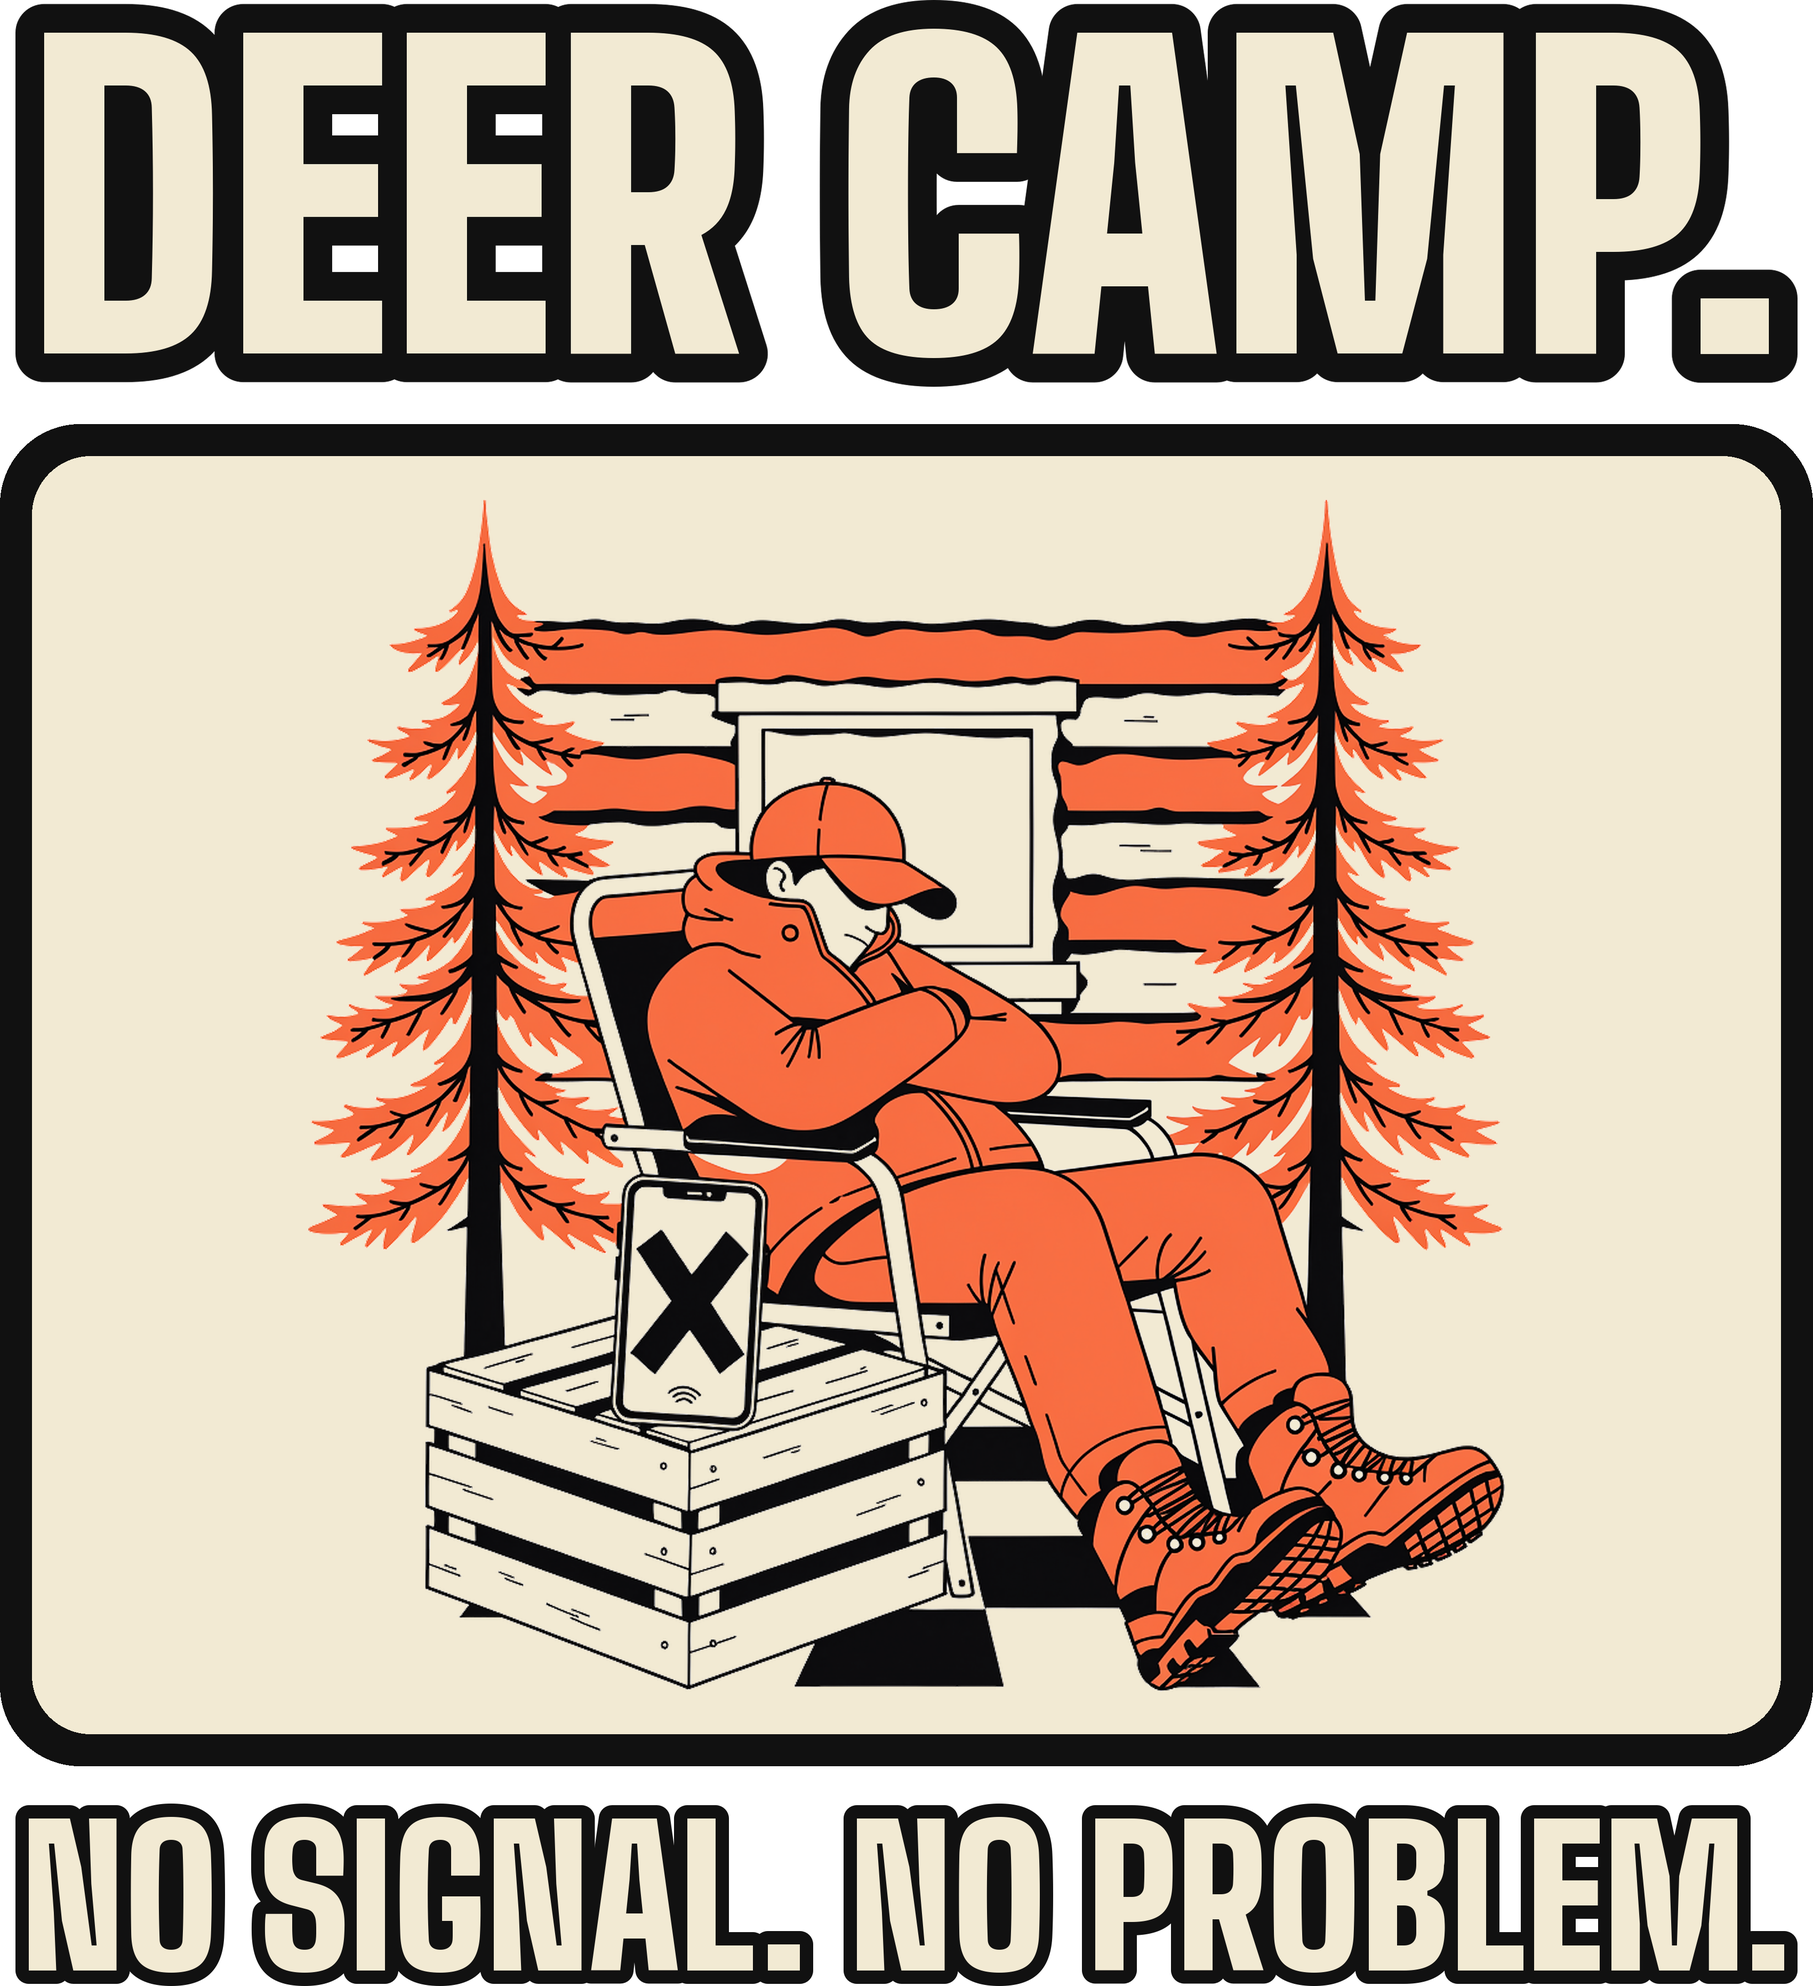
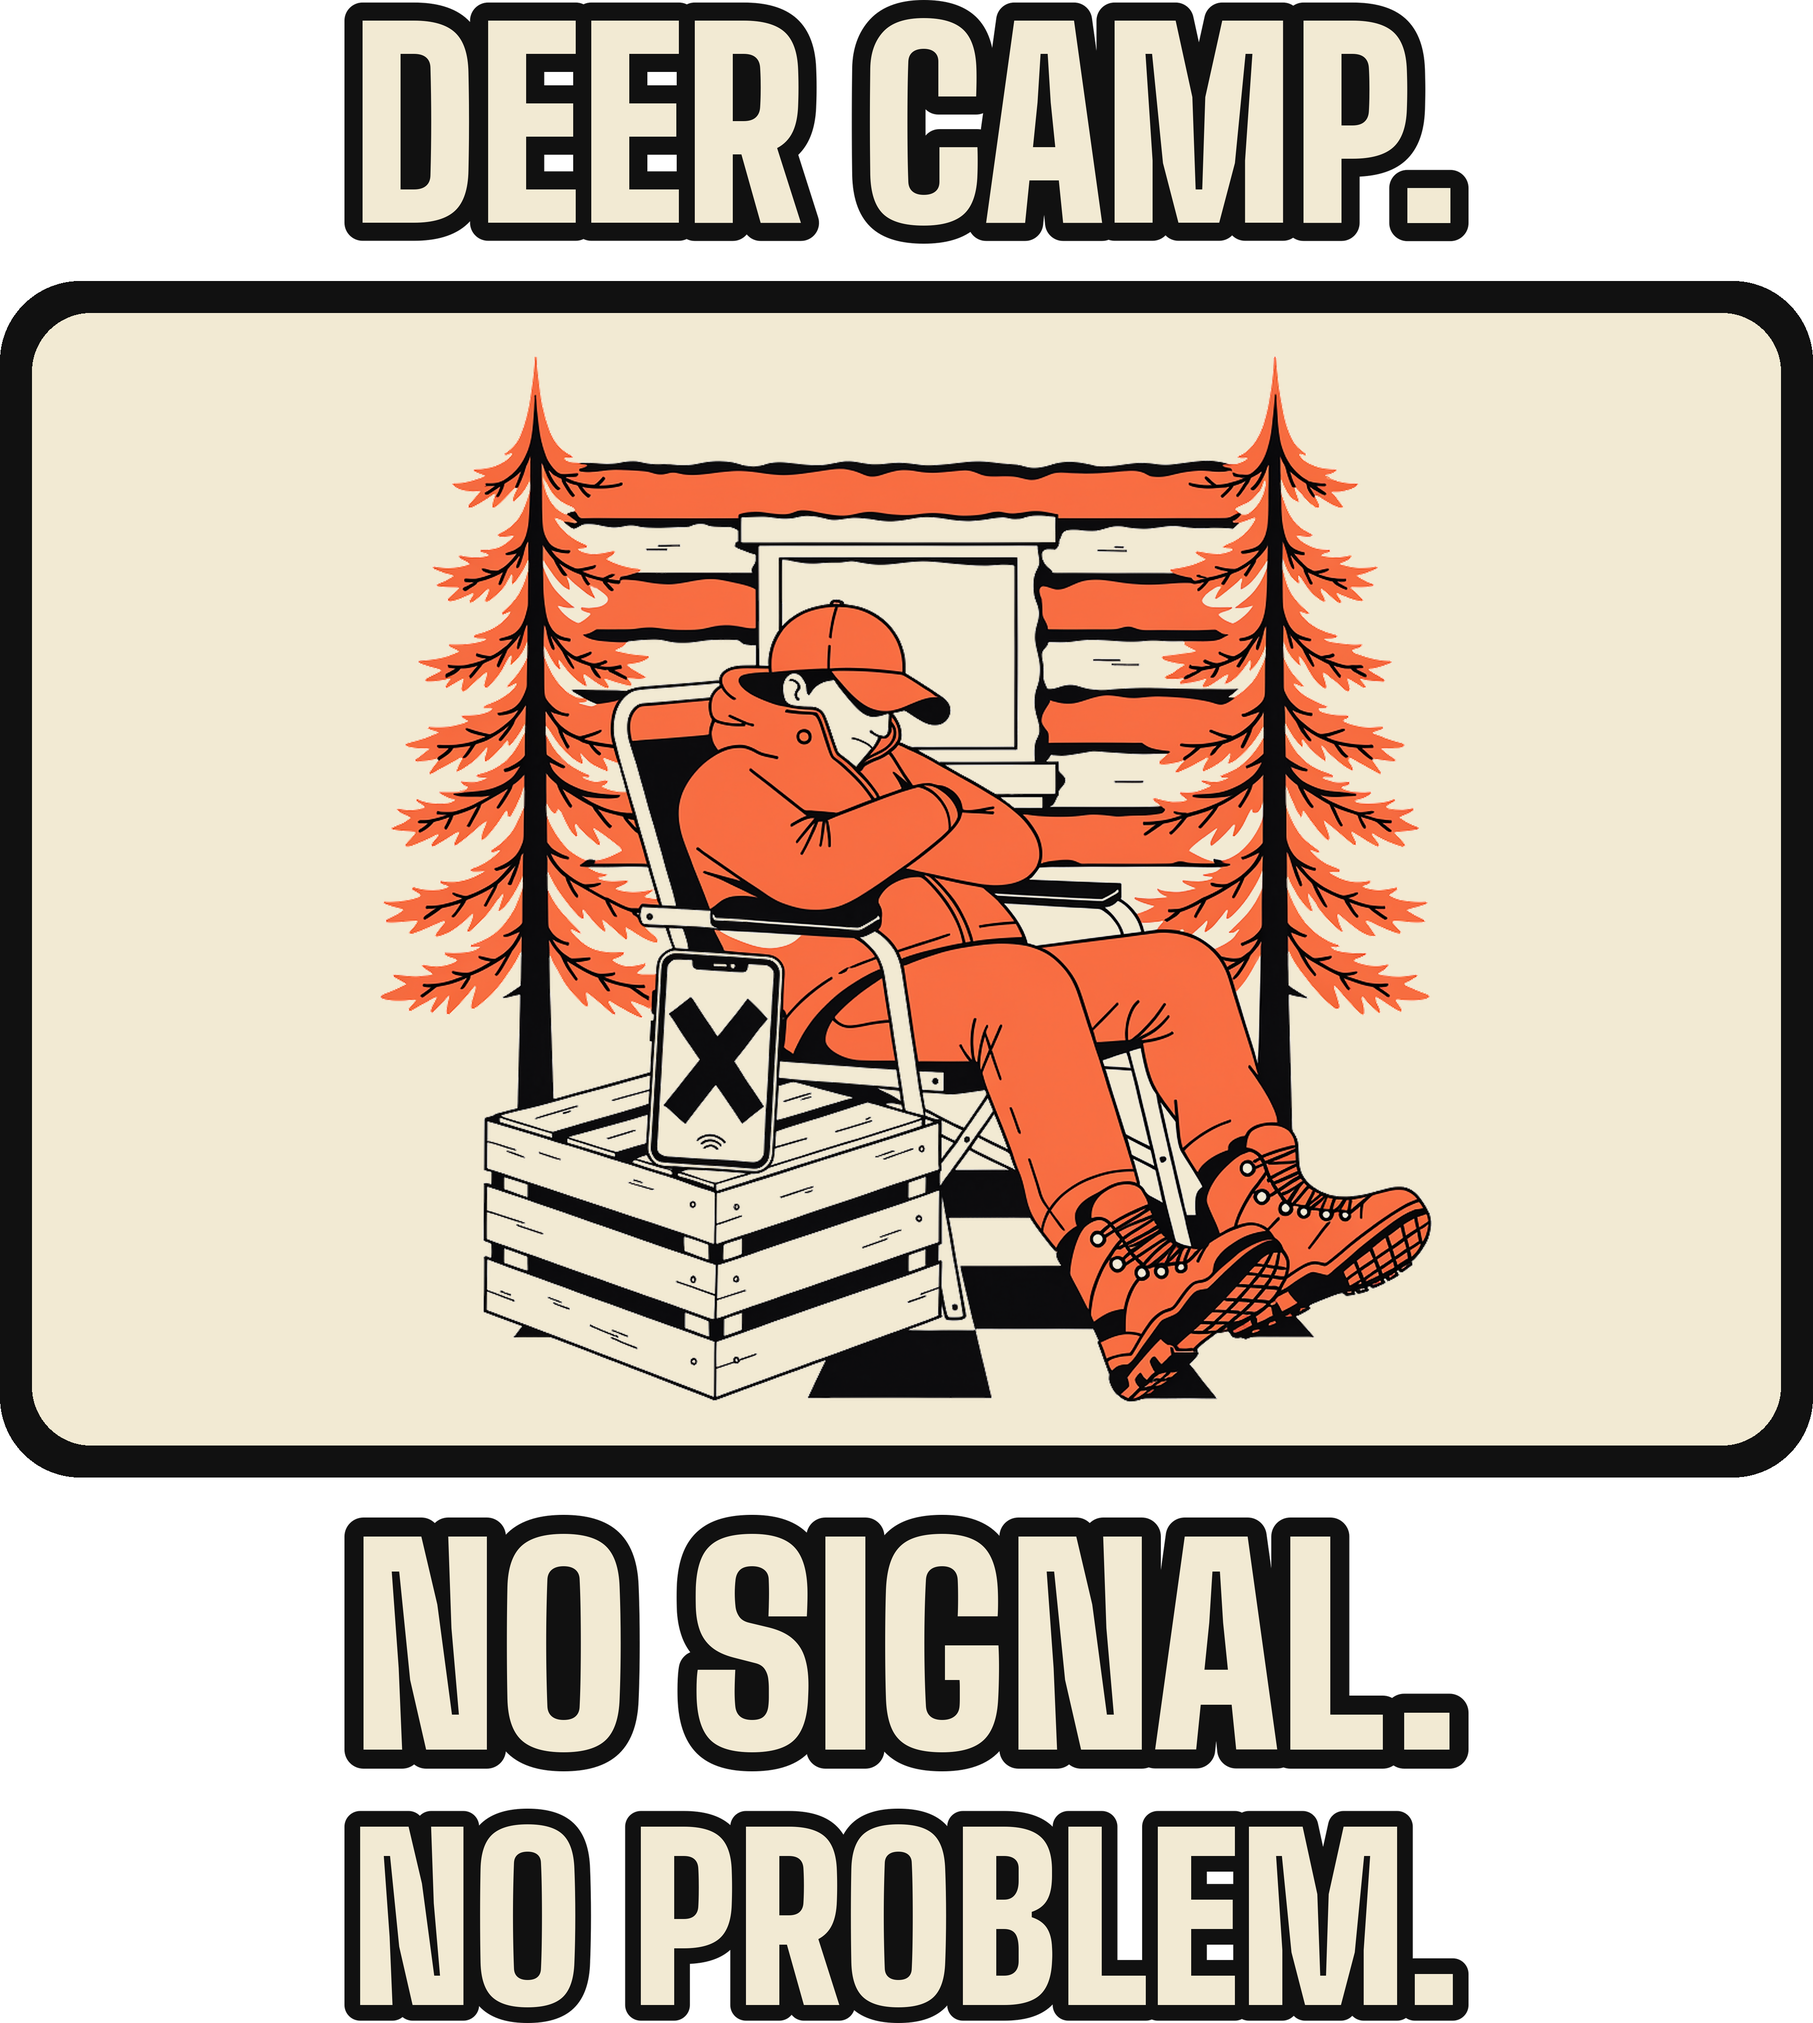
[B] review 884 Deer Camp No Signal camo sweatshirt

diff --git a/scripts/b-camo-lockup.py b/scripts/b-camo-lockup.py
@@ -29,9 +29,10 @@ def line(t):
     im = Image.new('RGBA', (b[2] - b[0] + 4, b[3] - b[1] + 4), (0, 0, 0, 0)); dd = ImageDraw.Draw(im)
     dd.text((-b[0] + 2, -b[1] + 2), t, font=f, fill=BONE, stroke_width=st, stroke_fill=DARK)
     return im.crop(im.getbbox())
+# LINEW=0.7 sets every line to 70% of the lockup width
 L = [line(t) for t in lines]; gap = 70
-mw = max(b.width for b in L); L = [b if b.width == mw else b.resize((mw, round(b.height * mw / b.width)), Image.LANCZOS) for b in L]
-blocks = ([L[0], patch] + L[1:]) if top else ([patch] + L)
+mw = int(W * float(os.environ['LINEW'])) if os.environ.get('LINEW') else max(b.width for b in L); L = [b if b.width == mw else b.resize((mw, round(b.height * mw / b.width)), Image.LANCZOS) for b in L]
+tn = int(os.environ.get('TOPN', 1)); blocks = (L[:tn] + [patch] + L[tn:]) if top else ([patch] + L)
 H = sum(b.height for b in blocks) + gap * (len(blocks) - 1)
 c = Image.new('RGBA', (W, H), (0, 0, 0, 0)); y = 0
 for b in blocks: c.alpha_composite(b, ((W - b.width) // 2, y)); y += b.height + gap

diff --git a/docs/pipeline/884-camo-redo-deer-camp-no-signal.md b/docs/pipeline/884-camo-redo-deer-camp-no-signal.md
@@ -1,4 +1,4 @@
-status: BUILDING [B] 2026-10-21T14:45Z
+status: REVIEW
 lane: B
 type: redo
 id: 884
@@ -22,3 +22,4 @@ push: camo
 ## Log
 - 2026-10-21 09:45 UTC director: brief written, READY (camo redo, lane B, push: camo; graded from docs/review/296.jpg).
 - 2026-10-21 10:45 UTC [B]: NOT BUILT this run (AOP item). The live front panel is a flat 5037x6600 jpg; I confirmed the chest art can be recovered by differencing it against the plain pattern panel (designs/aop_extract.py), but the arched or overlapping lettering needs a Recraft redraw for 875, 878 and 884 and the fal wallet is exhausted, and the AOP sync/mockup path (b-aopgo.sh) was not run in this session. Stays READY.
+- 2026-10-21 14:59 UTC [B]: BUILT IN PLACE (AOP sweatshirt #1418, two Recraft flat calls $0.08: try 1 showed a phone WITH signal bars and an awake hunter, so redrawn). Art: a hunter in a blaze-orange jacket and cap asleep in a camp chair, arms crossed, cap over his eyes, a phone with a big X on a wooden crate, log walls and two pines; 3 inks (black, blaze orange, white) on ONE bone patch with ~0.2 in black outline (scripts/b-camo-lockup.py --top, LINEW 0.62, PHR 0.66, TOPN 1). A first layout (DEER CAMP. at full width over a one-line punch at the same width) read as a tiny punch at phone size, so the punch is now two lines: DEER CAMP. above, NO SIGNAL. / NO PROBLEM. below, Big Shoulders Display Black bone with dark keyline; widths (7h) 2108 / 2108 / 2108 px (punch = headline, 100%). 7l: subject 1971 of 3400 px = 58%; type 1340 of 3794 px. Front panel = plain pattern panel 1087947657 with the lockup at 1500 px wide, top 1700 (scripts/b-aopredo.sh), file 1091170681; back 1087947726 and sleeves unchanged. R7.7: 11/11 on front 1091170681, back 1087947726 on 11/11 (2XS-6XL). New M mockups replace the old in place; phone-size read OK (all three lines read). Copy rewritten against the new art (sleeping hunter, X on the phone; the old cabin, antenna and buck rack are gone), Dec 8 gift line; title unchanged. Cohesion audit --handle PASS (0 warn). docs/review/884.jpg.

diff --git a/docs/intake-log.md b/docs/intake-log.md
@@ -1,4 +1,5 @@
 2026-10-21 14:44 UTC — [E] Builder run end: #827 redo, #851 redo and #852 #853 #854 #855 in REVIEW; #856 #857 #858 PARKED (colors not on Printful #943); #959-#961 colorway backfills (live zip products, many colors x chest/wrist/back files) not started, left READY for the next run. Lock released. fal $0.50 total.
+2026-10-21 14:59 UTC — [B] REVIEW #884 Men's Hunting Deer Camp No Signal Camo Sweatshirt (redo in place, AOP #1418, sleeping hunter + no-signal phone, 11/11 on 1091170681, punch 100%). fal $0.08.
 RUNNING director since 2026-10-21 14:17 UTC
 2026-10-21 14:47 UTC — [B] REVIEW #883 Women's Hunting Here for the Sunrise. The Ducks Are Optional. Camo Sweatshirt (redo in place, AOP #1418, new punch, 11/11 on 1091166262, punch 100%). fal $0.04.
 2026-10-21 14:44 UTC — [B] REVIEW #878 Men's Hunting Call Me After Duck Season Camo Sweatshirt (redo in place, AOP #1418, drake + ringing flip phone, 11/11 on 1091163732, punch 100%). fal $0.04.
